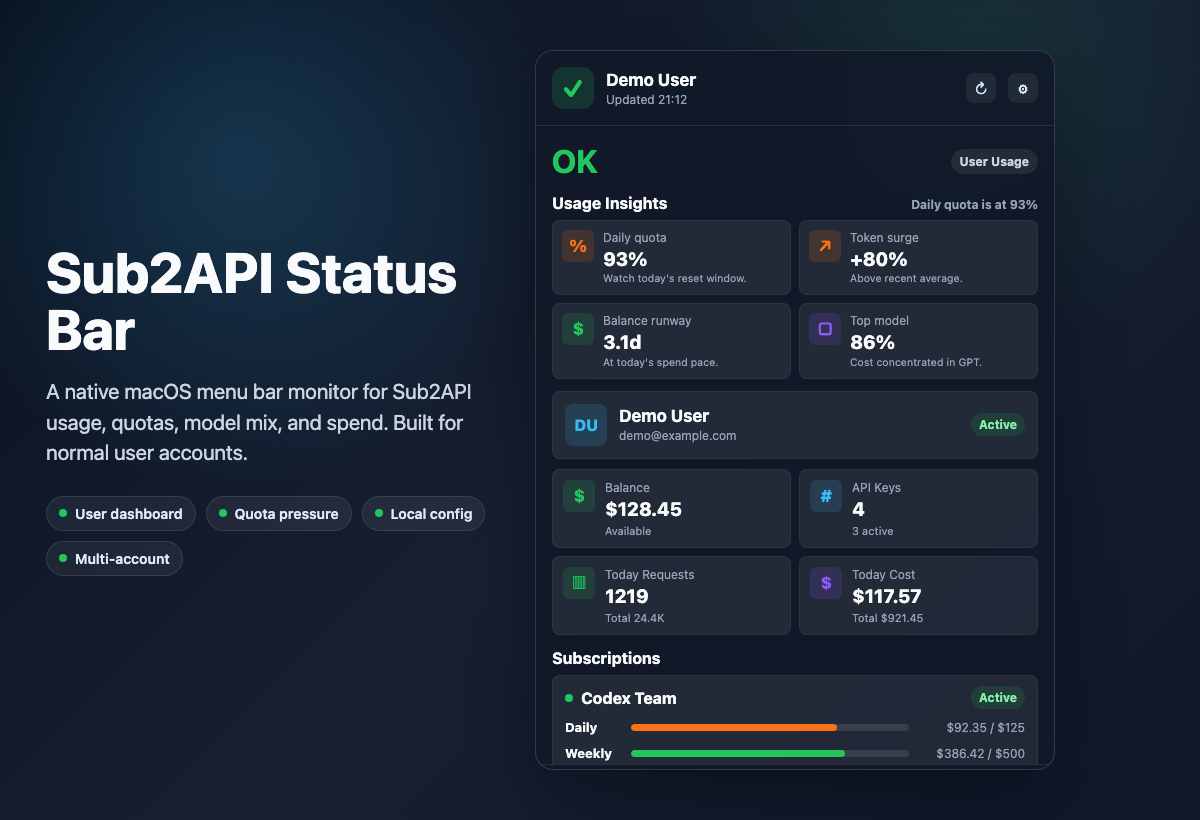
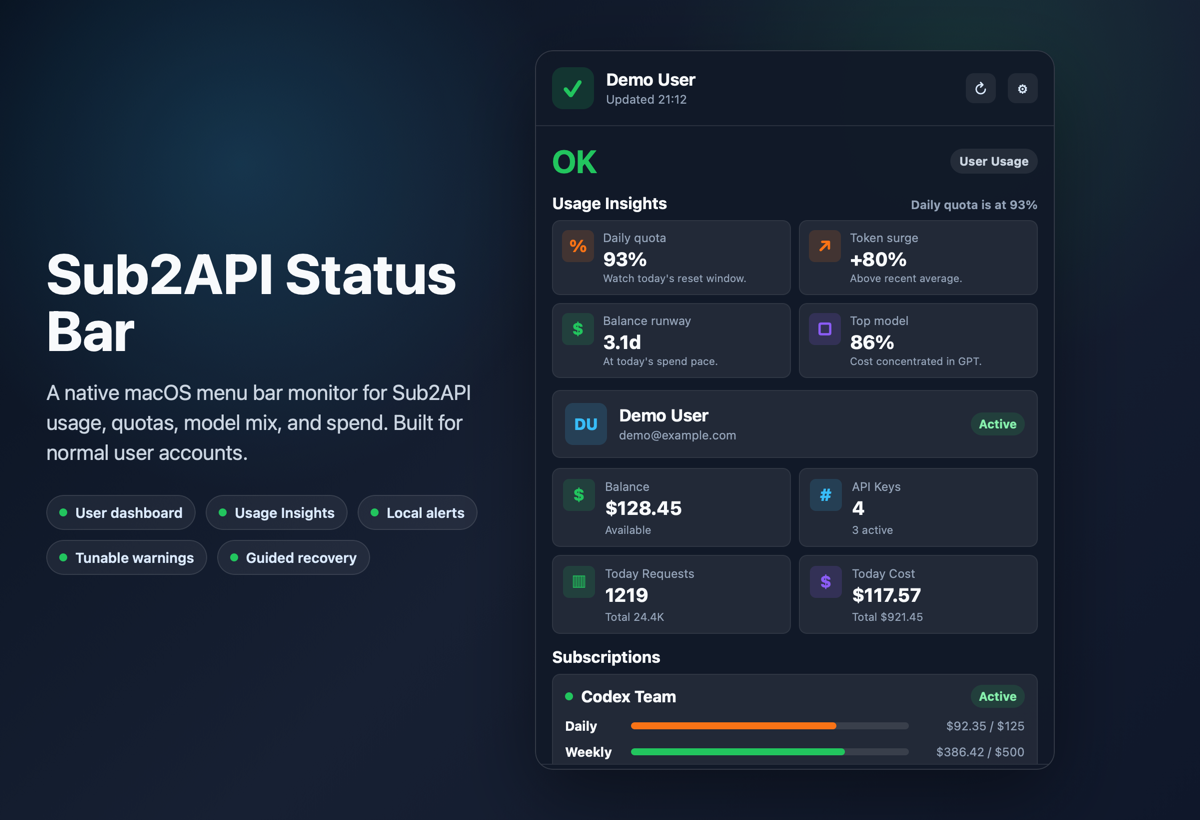
Automate product preview capture

diff --git a/scripts/capture-product-preview.swift b/scripts/capture-product-preview.swift
@@ -1,0 +1,109 @@
+#!/usr/bin/env swift
+
+import AppKit
+import Foundation
+import WebKit
+
+let root = URL(fileURLWithPath: FileManager.default.currentDirectoryPath)
+let htmlURL = root.appending(path: "docs/assets/product-preview.html")
+let outputURL = root.appending(path: "docs/assets/product-preview.png")
+let size = CGSize(width: 1_200, height: 820)
+
+guard FileManager.default.fileExists(atPath: htmlURL.path) else {
+    FileHandle.standardError.write(Data("Missing preview HTML: \(htmlURL.path)\n".utf8))
+    exit(1)
+}
+
+final class PreviewCapture: NSObject, WKNavigationDelegate {
+    private let htmlURL: URL
+    private let outputURL: URL
+    private let size: CGSize
+    private let webView: WKWebView
+
+    init(htmlURL: URL, outputURL: URL, size: CGSize) {
+        self.htmlURL = htmlURL
+        self.outputURL = outputURL
+        self.size = size
+        webView = WKWebView(frame: CGRect(origin: .zero, size: size))
+        super.init()
+        webView.navigationDelegate = self
+    }
+
+    func start() {
+        webView.loadFileURL(htmlURL, allowingReadAccessTo: htmlURL.deletingLastPathComponent())
+    }
+
+    func webView(_ webView: WKWebView, didFinish _: WKNavigation!) {
+        DispatchQueue.main.asyncAfter(deadline: .now() + 0.4) {
+            self.capture()
+        }
+    }
+
+    func webView(_: WKWebView, didFail _: WKNavigation!, withError error: Error) {
+        fail(error)
+    }
+
+    func webView(_: WKWebView, didFailProvisionalNavigation _: WKNavigation!, withError error: Error) {
+        fail(error)
+    }
+
+    private func capture() {
+        let configuration = WKSnapshotConfiguration()
+        configuration.rect = CGRect(origin: .zero, size: size)
+        webView.takeSnapshot(with: configuration) { image, error in
+            if let error {
+                self.fail(error)
+            }
+
+            guard let image,
+                  let bitmap = self.bitmap(from: image),
+                  let png = bitmap.representation(using: .png, properties: [:]) else {
+                self.fail(CocoaError(.fileWriteUnknown))
+                return
+            }
+
+            do {
+                try png.write(to: self.outputURL, options: .atomic)
+                print(self.outputURL.path)
+                exit(0)
+            } catch {
+                self.fail(error)
+            }
+        }
+    }
+
+    private func bitmap(from image: NSImage) -> NSBitmapImageRep? {
+        guard let bitmap = NSBitmapImageRep(
+            bitmapDataPlanes: nil,
+            pixelsWide: Int(size.width),
+            pixelsHigh: Int(size.height),
+            bitsPerSample: 8,
+            samplesPerPixel: 4,
+            hasAlpha: true,
+            isPlanar: false,
+            colorSpaceName: .deviceRGB,
+            bytesPerRow: 0,
+            bitsPerPixel: 0
+        ) else {
+            return nil
+        }
+
+        NSGraphicsContext.saveGraphicsState()
+        NSGraphicsContext.current = NSGraphicsContext(bitmapImageRep: bitmap)
+        NSGraphicsContext.current?.imageInterpolation = .high
+        image.draw(in: CGRect(origin: .zero, size: size), from: .zero, operation: .copy, fraction: 1)
+        NSGraphicsContext.restoreGraphicsState()
+        return bitmap
+    }
+
+    private func fail(_ error: Error) -> Never {
+        FileHandle.standardError.write(Data("Preview capture failed: \(error.localizedDescription)\n".utf8))
+        exit(1)
+    }
+}
+
+let app = NSApplication.shared
+app.setActivationPolicy(.prohibited)
+let capture = PreviewCapture(htmlURL: htmlURL, outputURL: outputURL, size: size)
+capture.start()
+app.run()

diff --git a/Tests/Sub2APIStatusCoreTests/Sub2APIStatusCoreTests.swift b/Tests/Sub2APIStatusCoreTests/Sub2APIStatusCoreTests.swift
@@ -2,6 +2,22 @@ import Foundation
 import Testing
 @testable import Sub2APIStatusCore
 
+@Test func productPreviewAssetsAreReleaseReady() throws {
+    let root = URL(fileURLWithPath: FileManager.default.currentDirectoryPath)
+    let htmlURL = root.appending(path: "docs/assets/product-preview.html")
+    let pngURL = root.appending(path: "docs/assets/product-preview.png")
+
+    #expect(FileManager.default.fileExists(atPath: htmlURL.path))
+    #expect(FileManager.default.fileExists(atPath: pngURL.path))
+
+    let png = try Data(contentsOf: pngURL)
+    #expect(png.count > 10_000)
+    #expect(png[0..<8].elementsEqual([0x89, 0x50, 0x4E, 0x47, 0x0D, 0x0A, 0x1A, 0x0A]))
+    let size = try #require(pngSize(png))
+    #expect(size.width == 1_200)
+    #expect(size.height == 820)
+}
+
 @Test func appConfigNormalizesBaseURLAndRefreshInterval() {
     var config = AppConfig(baseURL: " http://127.0.0.1:8080/api/v1/// ", authToken: " token ", refreshIntervalSeconds: 1, language: .zhHans, monitorMode: .user)
 
@@ -12,6 +28,16 @@ import Testing
     #expect(config.refreshIntervalSeconds == 5)
     #expect(config.monitorMode == .user)
     #expect(config.showsMenuBarText == false)
+}
+
+private func pngSize(_ data: Data) -> (width: Int, height: Int)? {
+    guard data.count >= 24 else {
+        return nil
+    }
+
+    let width = data[16..<20].reduce(0) { ($0 << 8) + Int($1) }
+    let height = data[20..<24].reduce(0) { ($0 << 8) + Int($1) }
+    return (width, height)
 }
 
 @Test func appConfigPersistsMenuBarTextPreference() throws {

diff --git a/docs/PRODUCT_REVIEW.md b/docs/PRODUCT_REVIEW.md
@@ -310,3 +310,16 @@ Sub2API Status Bar should not compete as a full analytics dashboard. The winning
 
 3. 提升
    - Users can now see whether today's workload is merely larger or actually more expensive per token, which makes the app more useful for model-mix decisions.
+
+### 2026-05-18 Cycle R
+
+1. 审视
+   - The README preview image existed, but the repo did not contain a reliable way to regenerate it after visual product changes.
+
+2. 执行
+   - Added a WebKit-based preview capture script that renders `docs/assets/product-preview.html` into `docs/assets/product-preview.png`.
+   - Added release tests that assert the preview HTML and 1200x820 PNG asset are present.
+   - Added the preview capture step to development and release documentation.
+
+3. 提升
+   - Product marketing assets are now reproducible from the repository instead of being a fragile manual artifact.

diff --git a/README.md b/README.md
@@ -149,11 +149,18 @@ GitHub only exposes published releases through the public latest-release API. Dr
 ```bash
 swift test
 swift build
+./scripts/capture-product-preview.swift
 ./scripts/package-release.sh
 ./scripts/verify-release.sh
 ```
 
 GitHub Actions runs the same checks on `main`, pull requests, tags, and manual workflow dispatches.
+
+Regenerate the README product preview after visual changes:
+
+```bash
+./scripts/capture-product-preview.swift
+```
 
 ## Troubleshooting
 

diff --git a/docs/RELEASE_CHECKLIST.md b/docs/RELEASE_CHECKLIST.md
@@ -33,6 +33,7 @@
 - [ ] Notarize the app with Apple
 - [x] Attach the release zip and checksum to a GitHub Release
 - [x] Add product screenshots or a short demo GIF to the README
+- [x] Reproducible product preview capture script
 - [x] Decide whether the repository should stay private or become public
 
 ## Release Commands
@@ -40,6 +41,7 @@
 ```bash
 swift test
 swift build
+./scripts/capture-product-preview.swift
 VERSION=v0.1.6 ./scripts/package-release.sh
 VERSION=v0.1.6 ./scripts/verify-release.sh
 ```